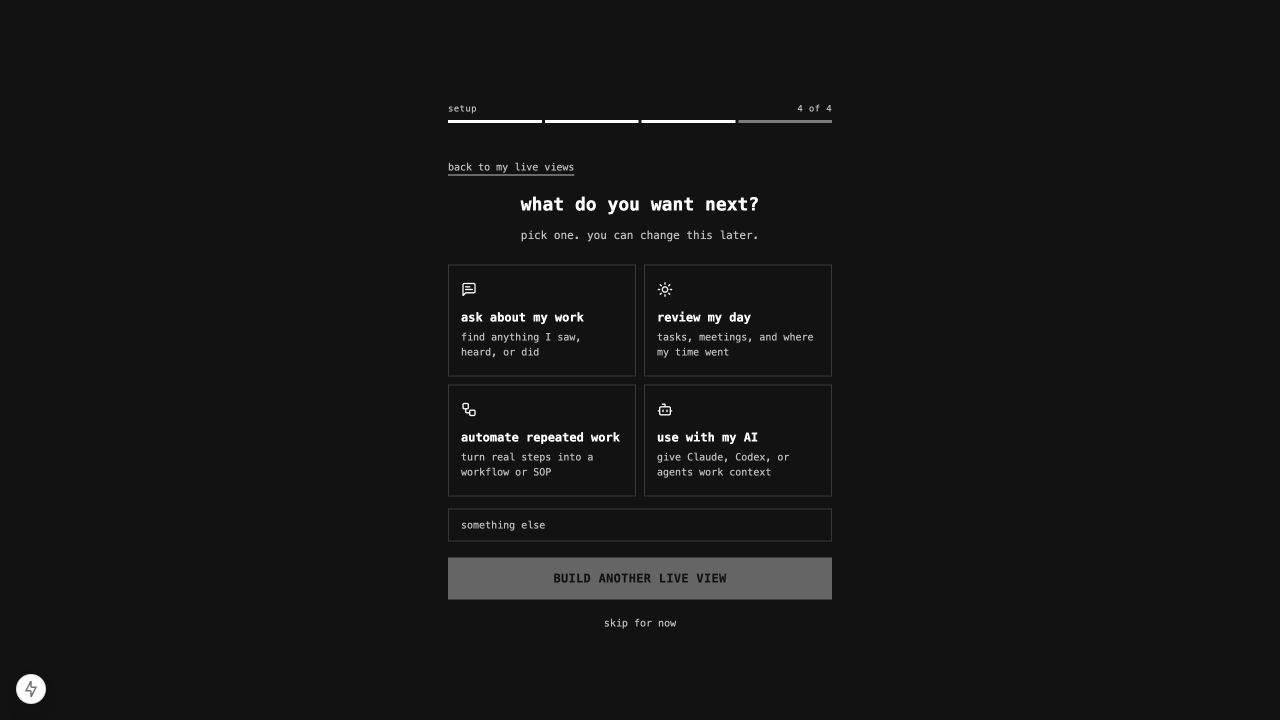
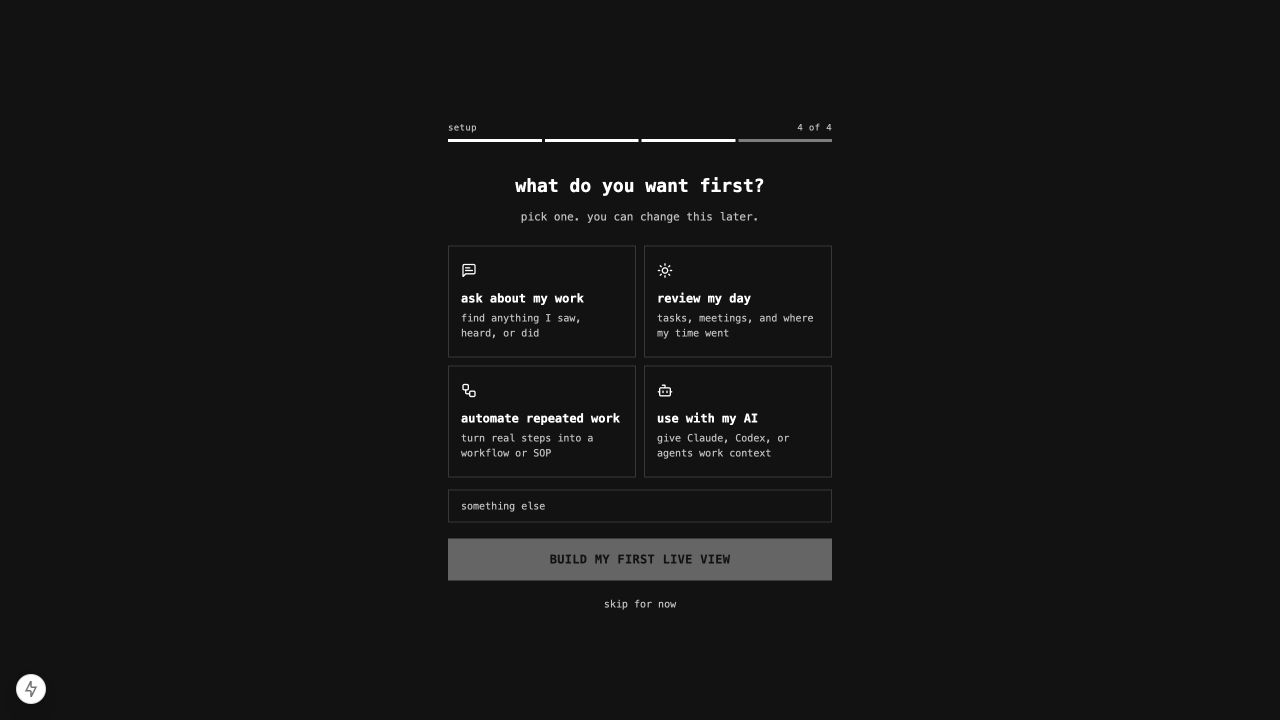
remove redundant Live View back link

diff --git a/apps/screenpipe-app-tauri/components/onboarding/first-dashboard.tsx b/apps/screenpipe-app-tauri/components/onboarding/first-dashboard.tsx
@@ -849,18 +849,6 @@ export default function FirstDashboard() {
   return (
     <div className="flex flex-col items-center py-2">
       <div className="w-full max-w-sm">
-        {isAdditionalViewFlow && (
-          <button
-            type="button"
-            onClick={() => {
-              setCreatingAnotherView(false);
-              setError(null);
-            }}
-            className="mb-4 font-mono text-[10px] lowercase text-muted-foreground underline underline-offset-4 transition-colors hover:text-foreground"
-          >
-            back to my Live Views
-          </button>
-        )}
         <h2 className="text-center font-mono text-lg font-semibold lowercase">
           what do you want{isAdditionalViewFlow ? " next" : " first"}?
         </h2>
